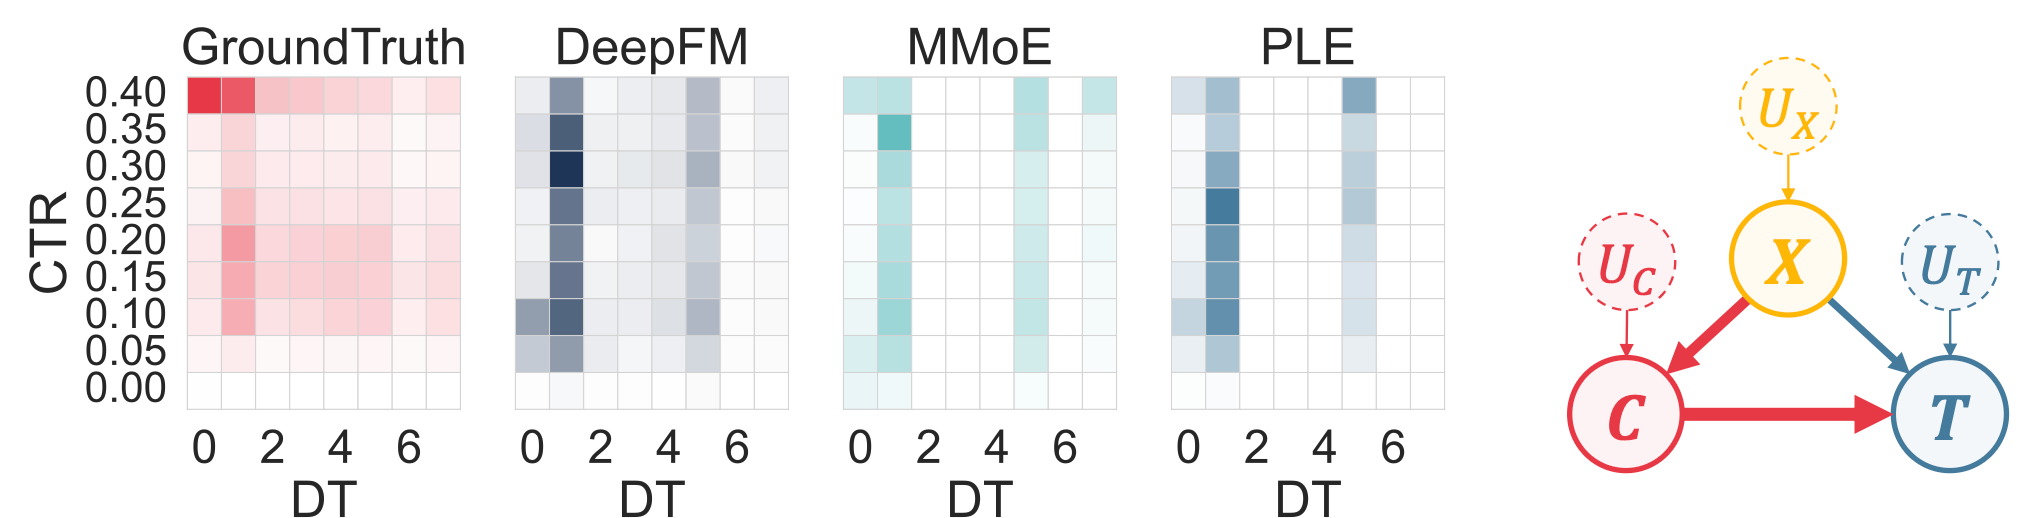
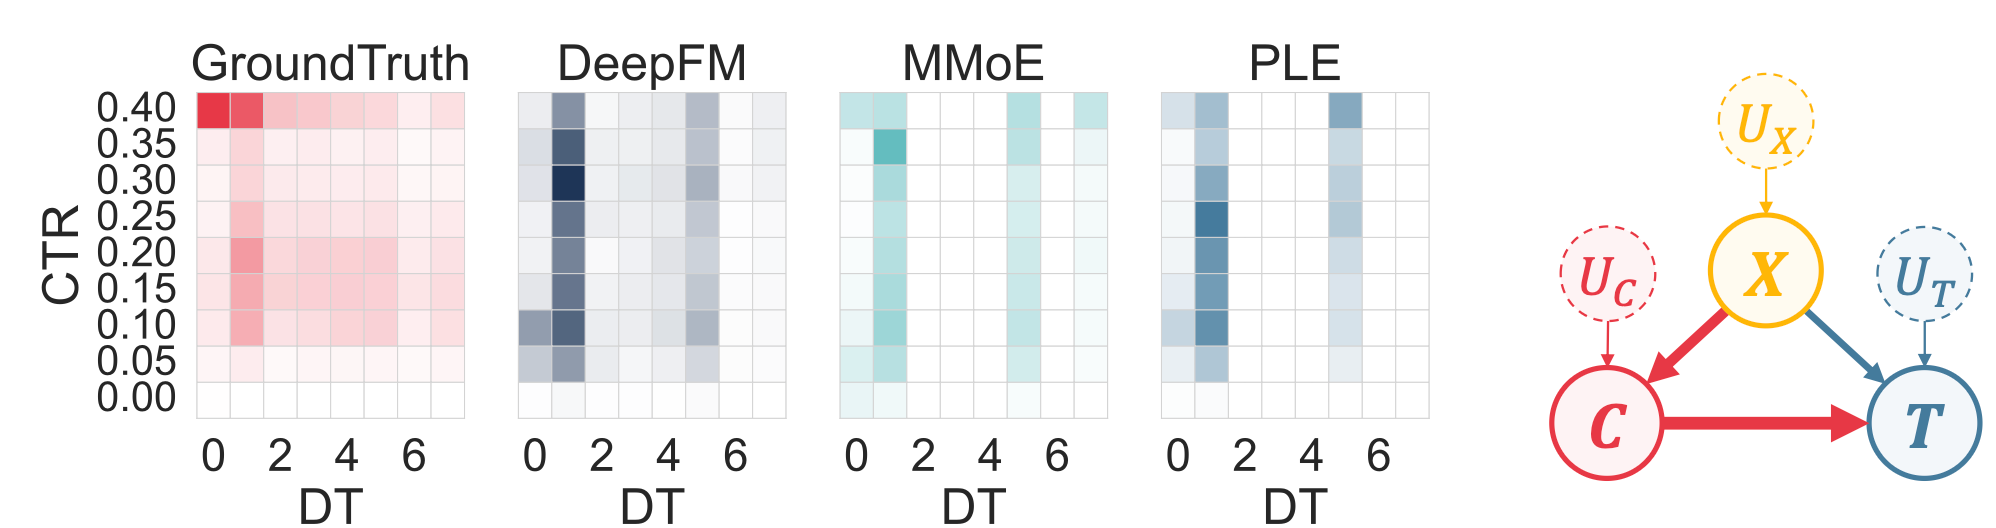
update heatmap

diff --git a/README.md b/README.md
@@ -18,7 +18,7 @@ We observe that multi-task learning (MTL) models often skew dwell-time (DT) pred
 
 
 <div align="center">
-      <img src="./fig/heatmap.png" width="90%" alt="CTR–DT heatmaps of clicked impressions for the ground truth and classical models, and causal graph of MTL.">
+      <img src="./fig/heatmap.png" width="80%" alt="CTR–DT heatmaps of clicked impressions for the ground truth and classical models, and causal graph of MTL.">
       <p><strong><figcaption>Figure 1:</strong> CTR–DT heatmaps of clicked impressions for the ground truth and classical models, and causal graph of MTL. <i>X</i>: input, <i>C</i>: clicks, <i>T</i>: dwell time, <i>U</i>: unobserved factors.</p>
 </div>
 
